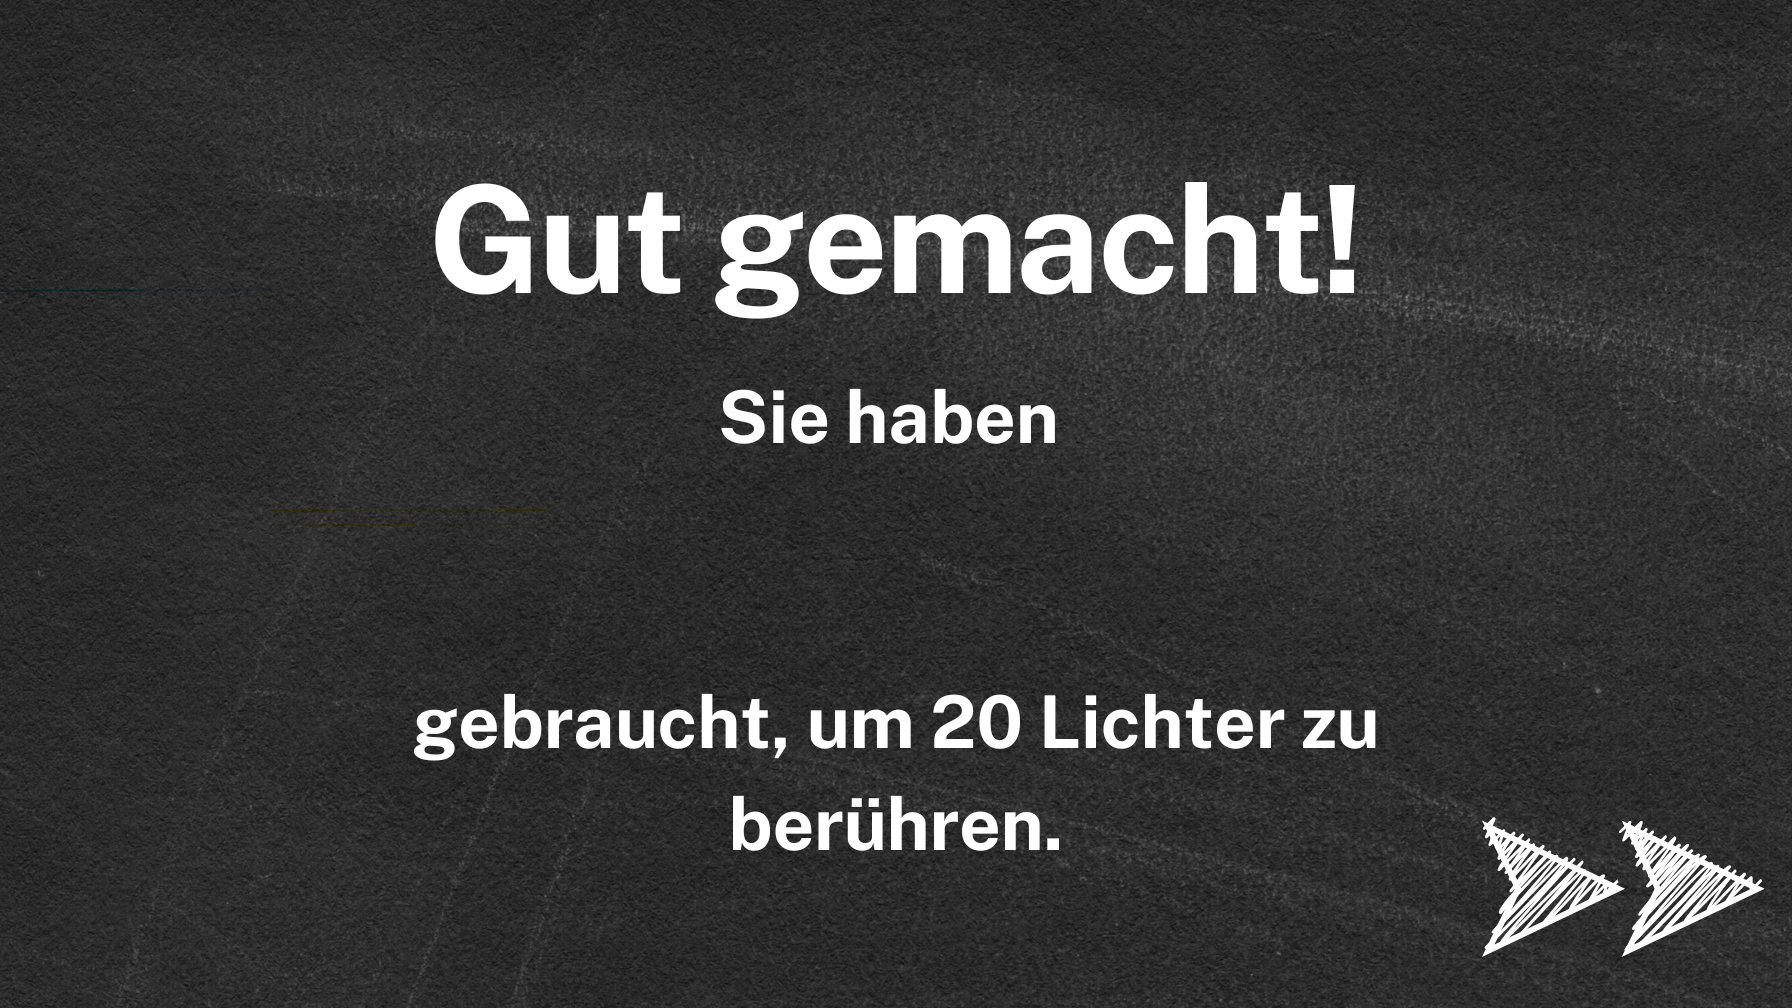
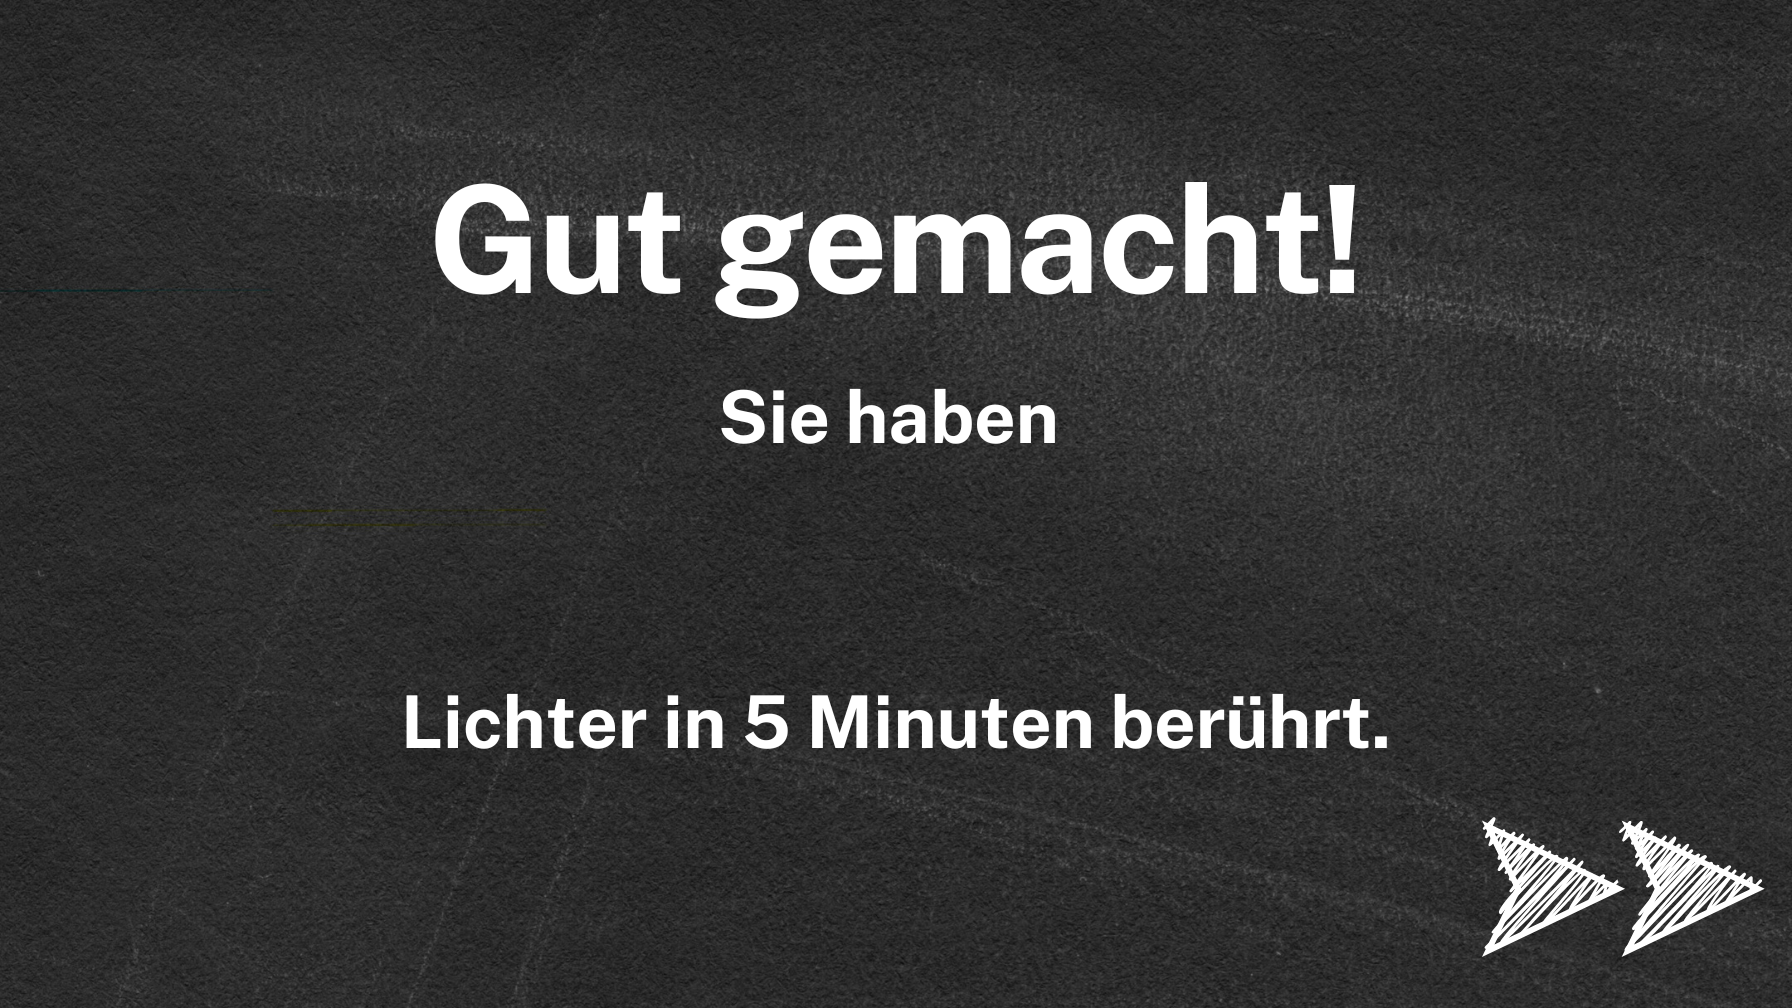
changed position of dots to align with board, fixed issue with 'well done' screen

Changed region(s): [[0.2188, 0.6766, 0.7812, 0.7688], [0.4062, 0.7688, 0.5938, 0.8611]]

diff --git a/pygame-app/games/connect_dots.py b/pygame-app/games/connect_dots.py
@@ -17,14 +17,14 @@ class TouchDots(GameInterface):
         print(self.level)
 
         # Define the size of the game screen
-        self.game_screen_width = self.manager.screen_width * 1 / 2
-        self.game_screen_height = self.manager.screen_height * 5 / 6
+        scaler = 50
+        self.game_screen_width = 12 * scaler 
+        self.game_screen_height = 12 * scaler 
 
         # Dots are drawn in percent from the center of the screen
-        dist_x = 12  # horizontal distance between dots, in percent. Assumption: Non-even number
-        dist_y = (
-            12  # vertical distance between dots, in percent. Assumption: Even number
-        )
+        dist_x = 1/3 # horizontal distance between dots, as ratio 
+        dist_y = 1/4 # vertical distance between dots, as ratio
+    
 
         self.dots = [
             {
@@ -115,9 +115,9 @@ class TouchDots(GameInterface):
 
         for c in self.dots:
             c["pos"] = (
-                c["pos"][0] / 100 * self.manager.screen_width
+                c["pos"][0] * self.game_screen_width 
                 + self.manager.screen_width / 2,
-                c["pos"][1] / 100 * (self.manager.screen_height)
+                c["pos"][1] * (self.game_screen_height)
                 + self.manager.screen_height / 2,
             )
         self.active_dot_id: int = None

diff --git a/pygame-app/screens/game_screen.py b/pygame-app/screens/game_screen.py
@@ -79,14 +79,13 @@ class GameScreen(ScreenInterface):
             self.manager.game, "game_screen_width", self.manager.screen_width / 2
         )
         self.game_screen_height = getattr(
-            self.manager.game, "game_screen_height", self.manager.screen_height * 5 / 6
+            self.manager.game, "game_screen_height", self.manager.screen_height * 4 / 6
         )
 
         self.x_offset = (self.manager.screen_width - self.game_screen_width) / 2
         # Push the game screen down so lower boundary isn’t visible
         self.y_offset = (
-            self.manager.screen_height - self.game_screen_height + self.border_width
-        )
+            self.manager.screen_height - self.game_screen_height) / 2 #   + self.border_width
 
     def initialize_finger_tracking(self):
         """
@@ -273,4 +272,4 @@ class GameScreen(ScreenInterface):
         if self.cap is not None:
             cv2.destroyAllWindows()  # Close any OpenCV windows
             cv2.waitKey(1)  # Allow the OS time to process the close
-            self.cap.release()
+            self.cap.release() 

diff --git a/pygame-app/screens/configuration_screen.py b/pygame-app/screens/configuration_screen.py
@@ -11,13 +11,6 @@ game_mode_mapping = {
     "Circle the Dots": TouchDots,
 }
 
-# level_mapping = {
-#     "Level 1": None,
-#     "Level 2": None,
-#     "level 3": None
-# }
-
-
 class ConfigurationScreen(ScreenInterface):
     def __init__(self, manager):
         super().__init__(manager)
